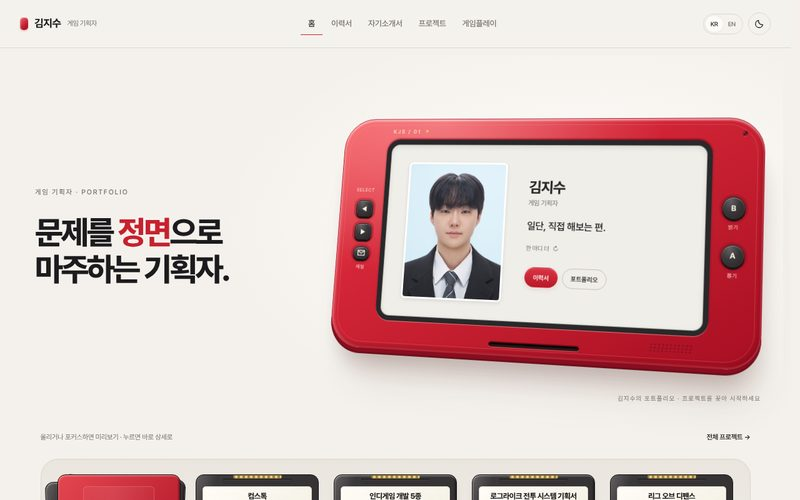
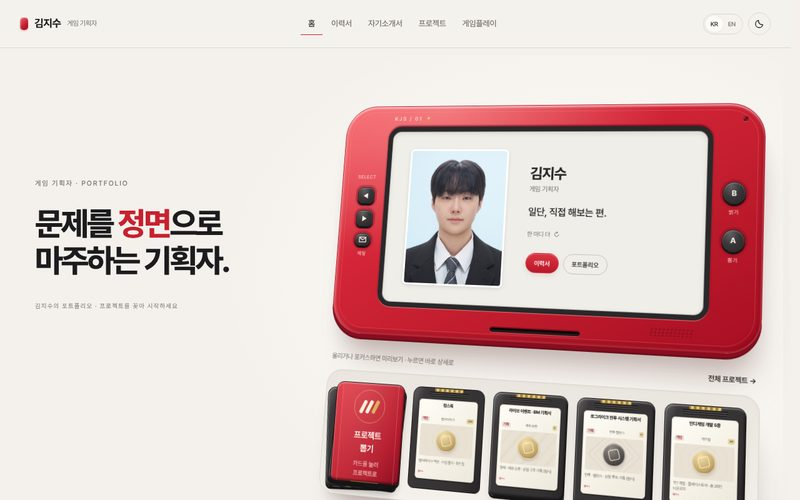
제품 사진 안: 카트리지 진열판을 게임기 바로 밑, 같은 기울기로
홈에서 게임기와 카트리지 진열판을 한 판(.ps-rig)에 올려 같은 원근·기울기로 함께 기울임 — 진열판이
게임기 바로 밑에 놓인 제품 샷 구도. 판은 transform-style: flat 이라 카드 클릭·호버 판정이 그대로 맞음.
모바일(<720px)은 기존처럼 평평하게 쌓임.

Claude-Session: https://claude.ai/code/session_01FvKYnfXZMVorzgeM1iQfv5

diff --git a/assets/css/themes/pixel-fc-3d.css b/assets/css/themes/pixel-fc-3d.css
@@ -256,6 +256,19 @@
 [data-skin="pixel-fc-3d"] .fc-fly__card { width: 100%; height: 100%; transform: none !important; }
 [data-skin="pixel-fc-3d"] .fc-slot { position: fixed; z-index: 99; left: 50%; width: 220px; height: 32px; border: 1px solid #9a1827; border-radius: 0 0 18px 18px; background: linear-gradient(#f0525c,#ba1a2d); box-shadow: inset 0 -2px 3px #ff8f8f70,0 10px 25px #00000030; }
 [data-skin="pixel-fc-3d"] .fc-slot::after { content: ''; position: absolute; bottom: 7px; left: 20px; right: 20px; height: 7px; border-radius: 9px; background: #241c1d; box-shadow: inset 0 2px 2px #000,0 1px 0 #ff8d8d80; }
+/* 홈: 게임기와 카트리지 진열판이 같은 기울기의 판(.ps-rig) 하나에 올라갑니다 — 진열판이 게임기 바로 밑 */
+[data-skin="pixel-fc-3d"] .ps-rig { position: relative; min-width: 0; }
+[data-skin="pixel-fc-3d"] .ps-stage--rig .ps-caption { position: static; margin: 34px 0 0; text-align: left; }
+@media (min-width: 720px) {
+  [data-skin="pixel-fc-3d"] .ps-stage--rig { align-items: start; padding-bottom: 64px; }
+  [data-skin="pixel-fc-3d"] .ps-stage--rig .ps-intro { padding-top: 118px; }
+  [data-skin="pixel-fc-3d"] .ps-stage--rig .ps-rig { transform: perspective(1300px) rotateX(7deg) rotateY(-12deg) rotateZ(3deg); transform-origin: 50% 35%; transform-style: flat; }
+  [data-skin="pixel-fc-3d"] .ps-stage--rig .ps-rig > .hero { transform: none; transform-style: flat; }
+  [data-skin="pixel-fc-3d"] .ps-rig > .draw { padding: 0; margin-top: 30px; }
+  [data-skin="pixel-fc-3d"] .ps-rig > .draw > .wrap { width: 100%; max-width: none; padding: 0; }
+  [data-skin="pixel-fc-3d"] .ps-rig .fcr-select-guide { margin: 0 6px 12px; }
+  [data-skin="pixel-fc-3d"] .ps-rig .draw__stage { gap: 14px; padding: 18px 18px 20px; border-radius: 26px; box-shadow: inset 0 1px 3px #00000008, 4px 34px 38px -22px #4b211d3a, 16px 60px 60px -30px #4b211d22; }
+}
 @media (min-width: 720px) {
   [data-skin="pixel-fc-3d"] .profile__row:nth-child(even) { border-left: 1px solid var(--border); }
 }

diff --git a/assets/js/themes/pixel-fc-3d.js b/assets/js/themes/pixel-fc-3d.js
@@ -154,8 +154,11 @@
     if (!hero || hero.closest('.ps-stage')) return;
     var grid = hero.querySelector('.hero__grid'), lead = grid && grid.firstElementChild;
     if (!lead) return;
-    var stage = node('div', 'ps-stage'), intro = node('div', 'ps-intro');
-    hero.parentNode.insertBefore(stage, hero); stage.appendChild(intro); stage.appendChild(hero);
+    var stage = node('div', 'ps-stage'), intro = node('div', 'ps-intro'), rig = node('div', 'ps-rig');
+    hero.parentNode.insertBefore(stage, hero); stage.appendChild(intro); stage.appendChild(rig); rig.appendChild(hero);
+    /* 홈: 카트리지 진열판을 게임기 바로 밑, 같은 기울기 판(ps-rig) 위에 올립니다 */
+    var tray = stage.parentNode.querySelector(':scope > .draw');
+    if (tray) { rig.appendChild(tray); stage.classList.add('ps-stage--rig'); }
     var actions = lead.querySelector('.btn-row');
     while (lead.firstChild) intro.appendChild(lead.firstChild);
     lead.className = 'ps-lcd-info';
@@ -175,7 +178,7 @@
     var mark = node('span', 'ps-device-mark', 'KJS / 01'); mark.setAttribute('aria-hidden', 'true'); hero.appendChild(mark);
     var slot = node('div', 'ps-socket'); slot.setAttribute('aria-hidden', 'true'); hero.appendChild(slot);
     var caption = node('p', 'ps-caption', t({ko:'김지수의 포트폴리오 · 프로젝트를 꽂아 시작하세요',en:'JISU KIM’S PORTFOLIO · INSERT A PROJECT TO START'}));
-    stage.appendChild(caption);
+    (tray ? intro : stage).appendChild(caption);
   }
 
   var selected = null, pending = null, deckObserver = null, restoringFocus = false, rearmingDeck = false;
